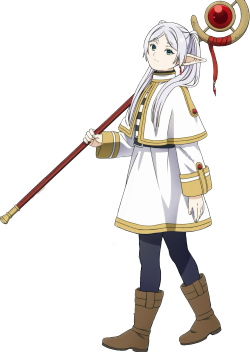
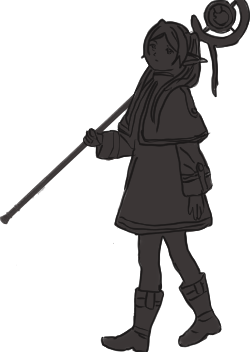
feat:添加水镜恶魔立绘和boss图标

Changed region(s): [[0.112, 0.0, 1.0, 1.0], [0.0, 0.5625, 0.112, 0.6562]]

diff --git a/src/main/java/FrierenMod/ModManager.java b/src/main/java/FrierenMod/ModManager.java
@@ -31,7 +31,7 @@ import com.google.gson.Gson;
 import com.megacrit.cardcrawl.cards.AbstractCard;
 import com.megacrit.cardcrawl.core.CardCrawlGame;
 import com.megacrit.cardcrawl.core.Settings;
-import com.megacrit.cardcrawl.dungeons.Exordium;
+import com.megacrit.cardcrawl.dungeons.TheBeyond;
 import com.megacrit.cardcrawl.localization.*;
 import com.megacrit.cardcrawl.relics.DeadBranch;
 import com.megacrit.cardcrawl.relics.StrangeSpoon;
@@ -122,9 +122,9 @@ public class ModManager implements EditCardsSubscriber, EditStringsSubscriber, E
     public void receivePostInitialize() {
         makeModPanels();
         BaseMod.addMonster(Spiegel_Frieren.MONSTER_ID, Spiegel_Frieren::new);
-        BaseMod.addBoss(Exordium.ID, Spiegel_Frieren.MONSTER_ID,
-                MonsterRes.SPIEGEL_BOSS_ICON,
-                MonsterRes.SPIEGEL_BOSS_ICON);
+        BaseMod.addBoss(TheBeyond.ID, Spiegel_Frieren.MONSTER_ID,
+                MonsterRes.SPIEGEL_BOSS_ICON_1,
+                MonsterRes.SPIEGEL_BOSS_ICON_2);
     }
 
     @Override

diff --git a/src/main/java/FrierenMod/monsters/Spiegel_Frieren.java b/src/main/java/FrierenMod/monsters/Spiegel_Frieren.java
@@ -38,7 +38,7 @@ public class Spiegel_Frieren extends AbstractMonster {
     private static final int WEAKENED_CHANT_POWER_AMT_ASC = 2;
 
     public Spiegel_Frieren() {
-        super(monsterStrings.NAME, MONSTER_ID, 500, 30.0F, -30.0F, 476.0F, 410.0F, MonsterRes.SPIEGEL_FRIEREN, -50.0F, 30.0F);
+        super(monsterStrings.NAME, MONSTER_ID, 400, 30.0F, -30.0F, 476.0F, 410.0F, MonsterRes.SPIEGEL_FRIEREN, -50.0F, 30.0F);
         this.type = EnemyType.BOSS;
         if (AbstractDungeon.ascensionLevel >= 19)
             this.damage.add(new DamageInfo(this, BASE_DAMAGE));

diff --git a/src/main/java/FrierenMod/utils/MonsterRes.java b/src/main/java/FrierenMod/utils/MonsterRes.java
@@ -2,5 +2,6 @@ package FrierenMod.utils;
 
 public class MonsterRes {
     public static final String SPIEGEL_FRIEREN = ModInformation.makeMonsterResPath("Spiegel_Frieren");
-    public static final String SPIEGEL_BOSS_ICON = ModInformation.makeMonsterResPath("Spiegel_icon");
+    public static final String SPIEGEL_BOSS_ICON_1 = ModInformation.makeMonsterResPath("Spiegel_icon_1");
+    public static final String SPIEGEL_BOSS_ICON_2 = ModInformation.makeMonsterResPath("Spiegel_icon_2");
 }
